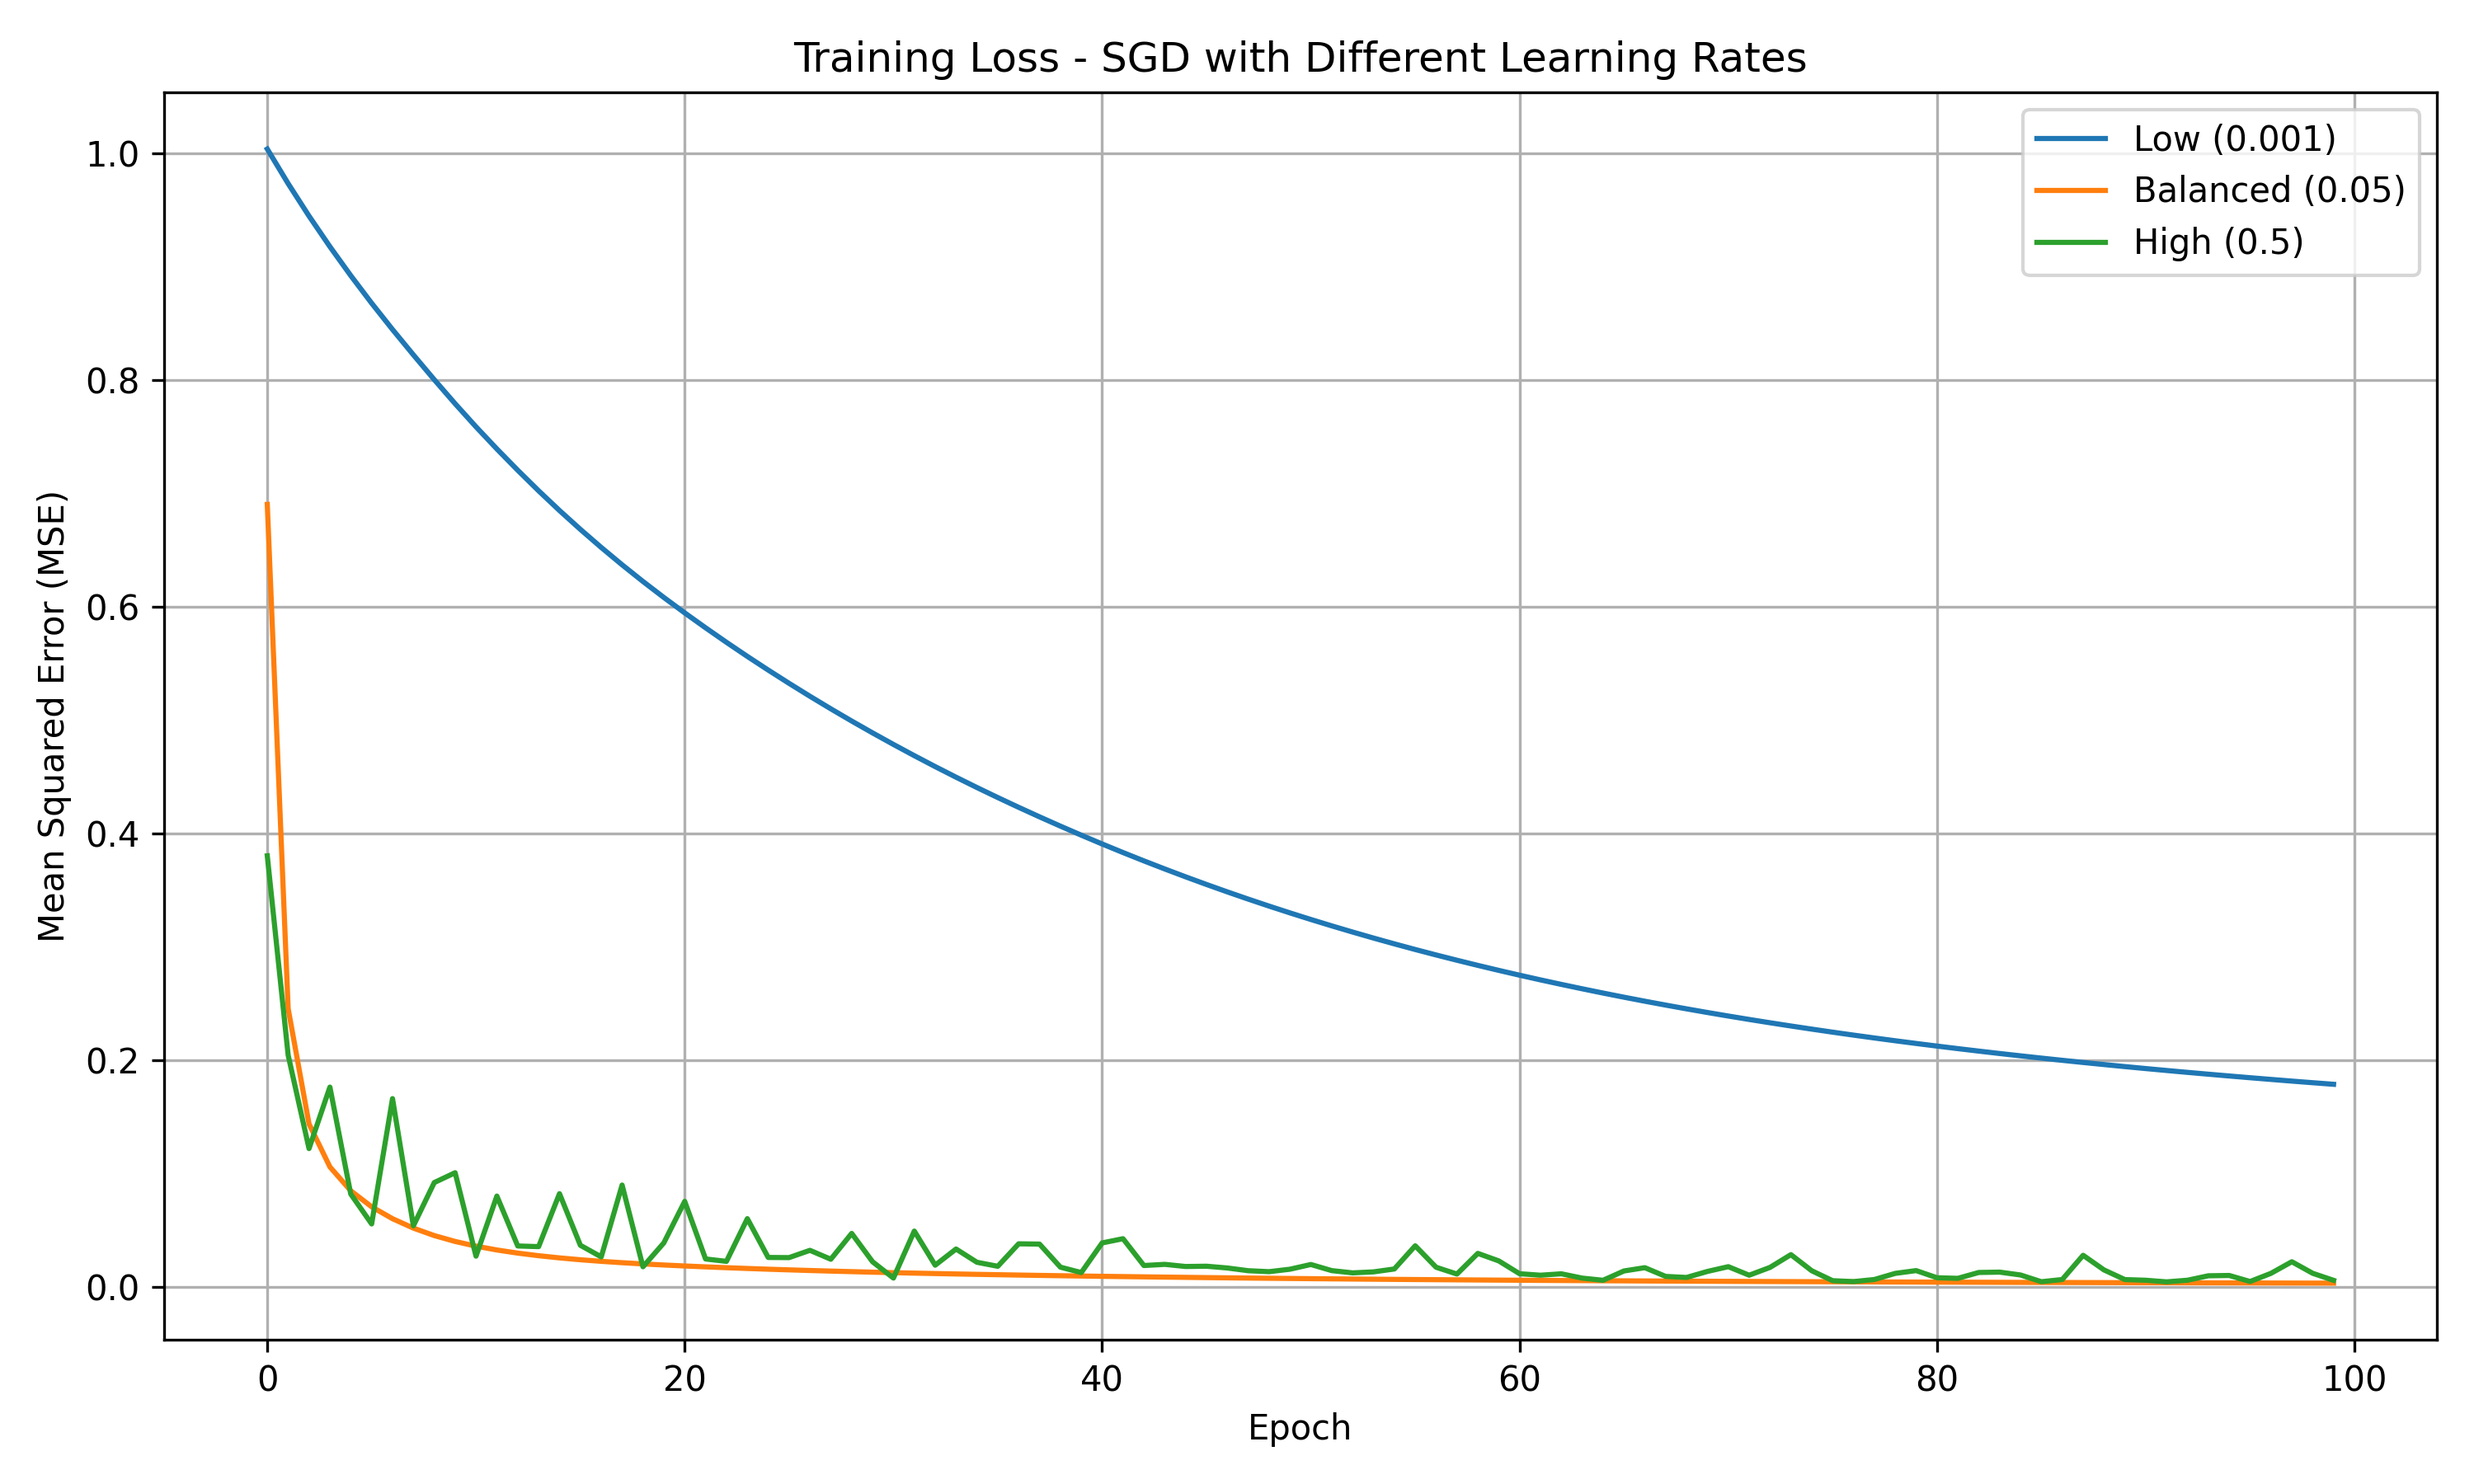
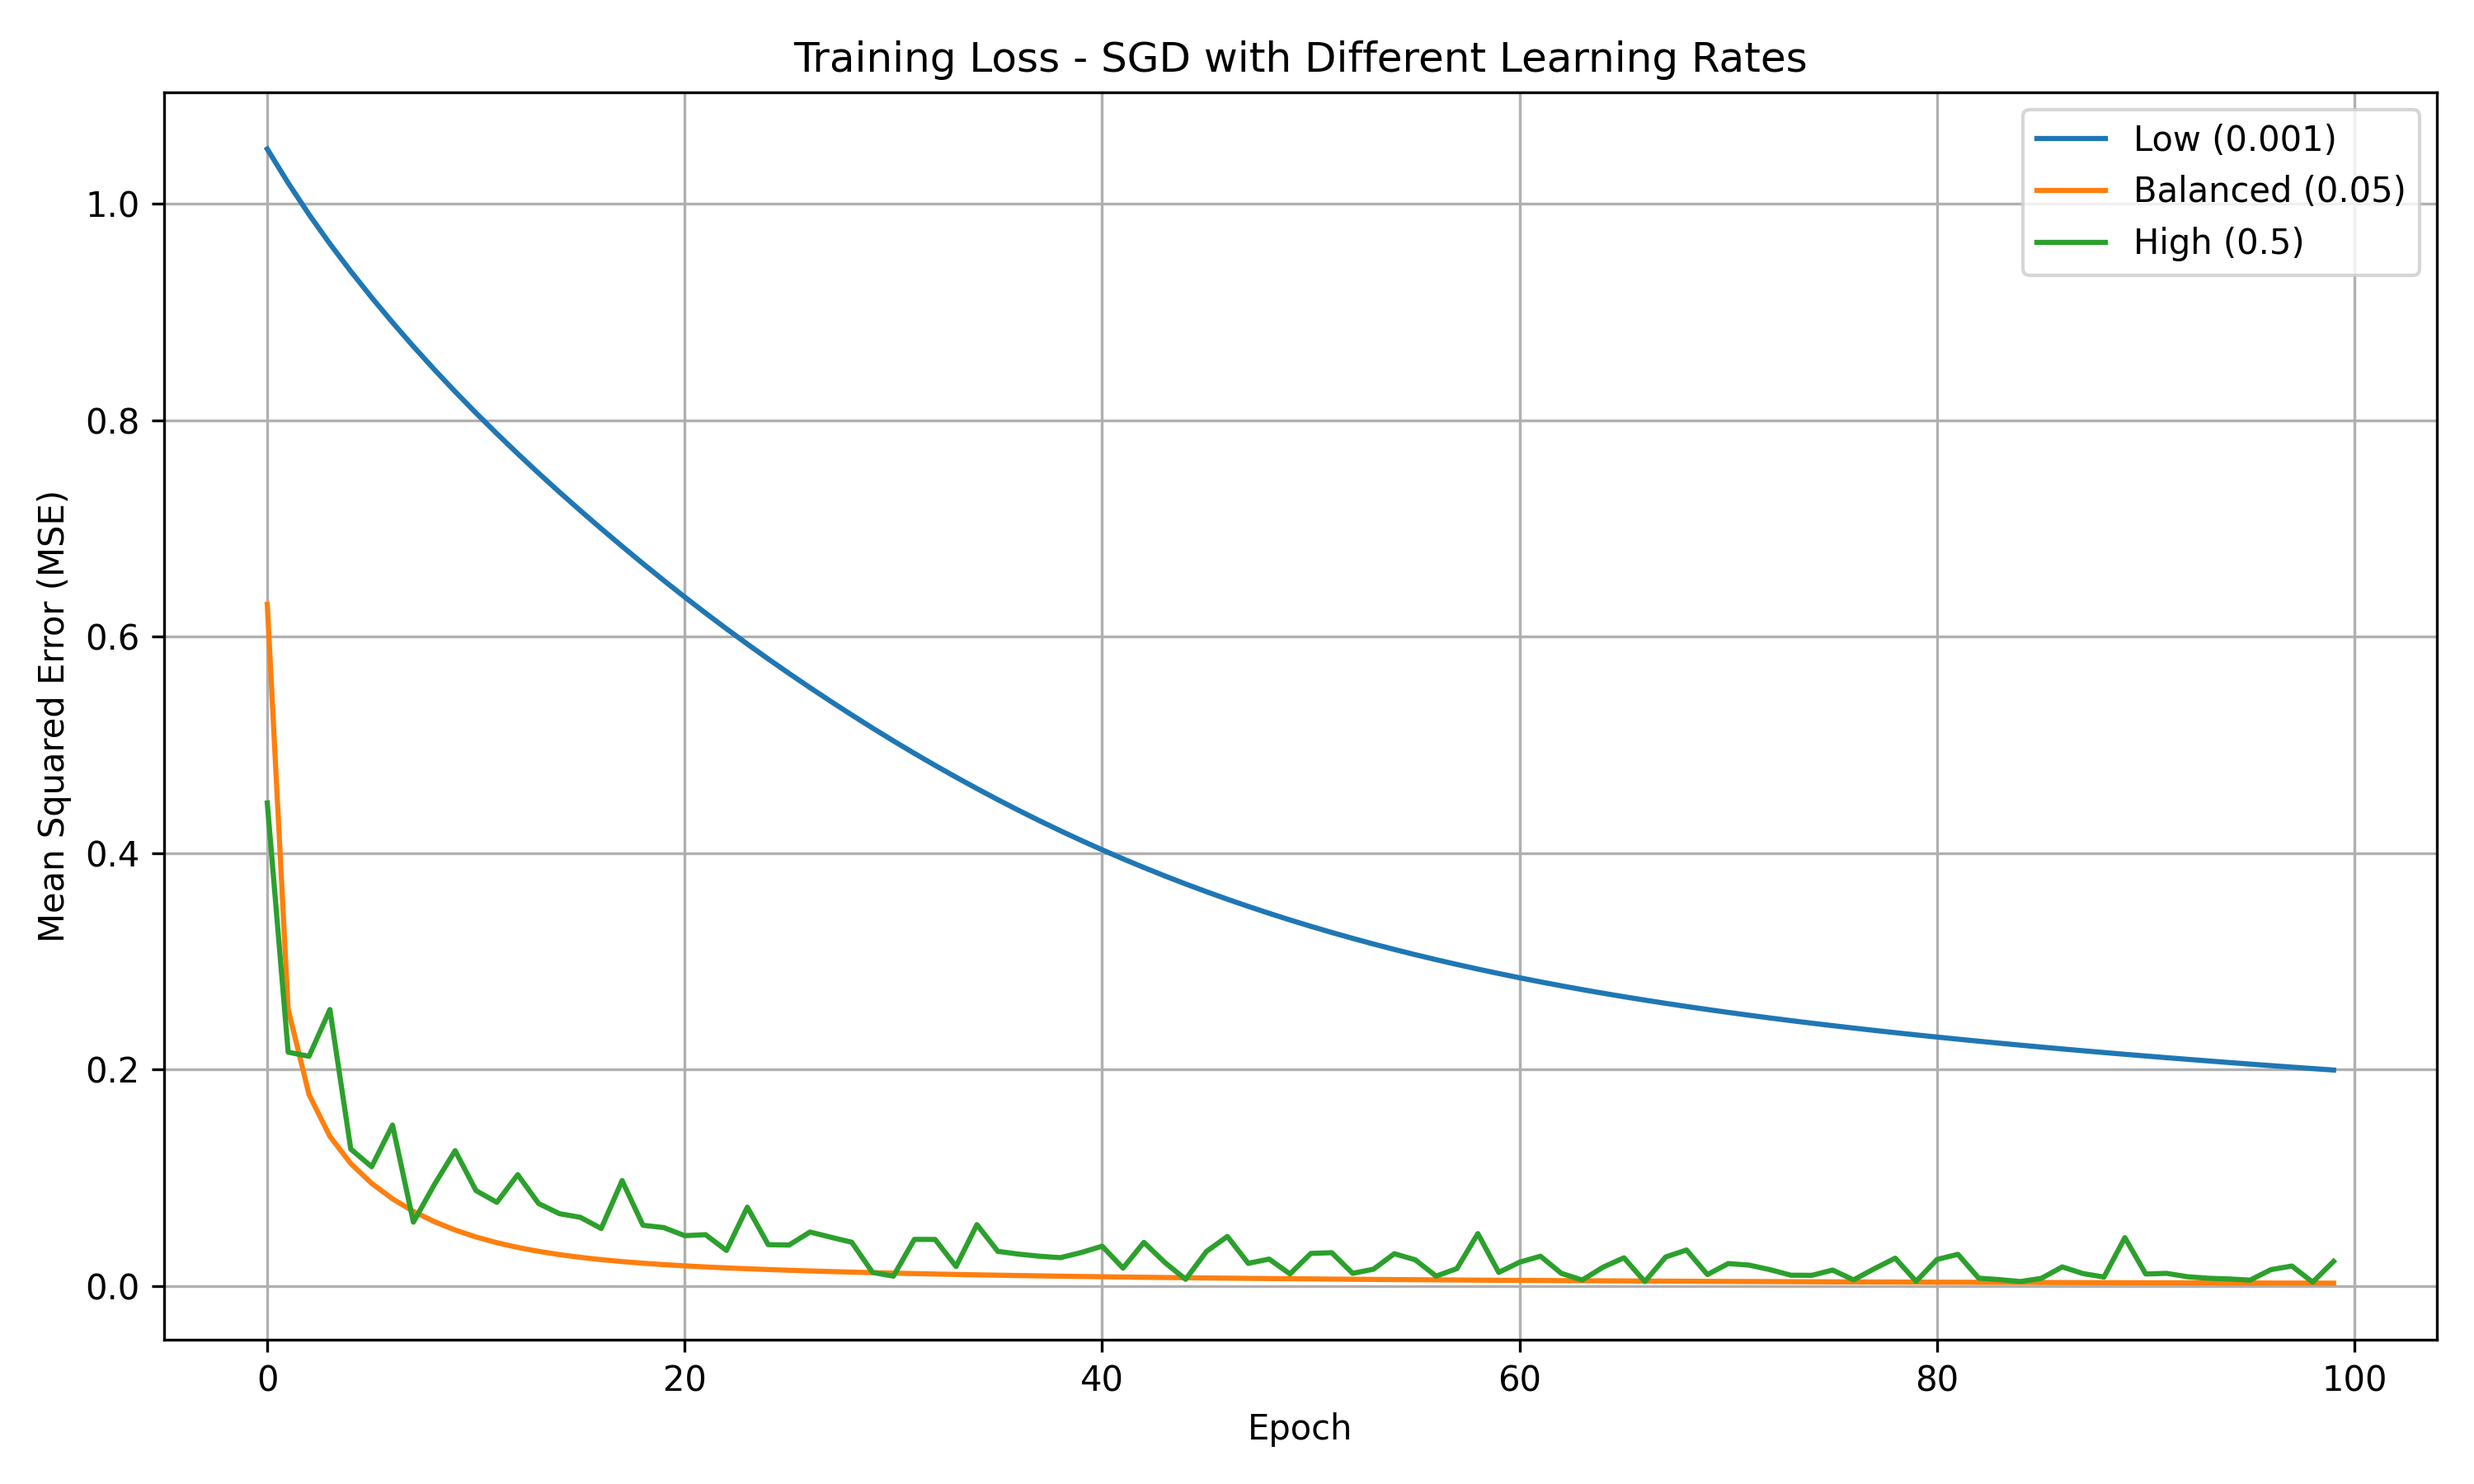
Update SGD analysis and add experiment screenshots

diff --git a/src/sgd_learning_rate_analysis.py b/src/sgd_learning_rate_analysis.py
@@ -1,5 +1,8 @@
 import os
 
+# Enable deterministic TensorFlow operations
+os.environ["TF_DETERMINISTIC_OPS"] = "1"
+
 import numpy as np
 import pandas as pd
 import matplotlib.pyplot as plt
@@ -13,8 +16,10 @@ from sklearn.preprocessing import StandardScaler
 # 1. Reproducibility
 # ---------------------------------------------------------
 
-np.random.seed(42)
-tf.random.set_seed(42)
+SEED = 42
+
+np.random.seed(SEED)
+tf.keras.utils.set_random_seed(SEED)
 
 
 # ---------------------------------------------------------
@@ -49,7 +54,7 @@ X_train, X_test, y_train, y_test = train_test_split(
     X,
     y,
     test_size=0.20,
-    random_state=42
+    random_state=SEED
 )
 
 
@@ -125,7 +130,6 @@ learning_rates = {
 # ---------------------------------------------------------
 
 histories = {}
-
 results = []
 
 
@@ -135,8 +139,8 @@ for name, learning_rate in learning_rates.items():
     print(f"Training with learning rate: {learning_rate}")
     print("-" * 65)
 
-    # Reset the random seed before creating each model
-    tf.random.set_seed(42)
+    # Reset random seed before creating each model
+    tf.keras.utils.set_random_seed(SEED)
 
     model = create_model(learning_rate)
 
@@ -146,6 +150,7 @@ for name, learning_rate in learning_rates.items():
         validation_split=0.20,
         epochs=100,
         batch_size=32,
+        shuffle=False,
         verbose=0
     )
 
@@ -241,10 +246,46 @@ plt.show()
 
 
 # ---------------------------------------------------------
-# 12. Save numerical results
+# 12. Calculate stability indicators
+# ---------------------------------------------------------
+
+stability_results = []
+
+for name, history in histories.items():
+
+    val_loss = np.array(history["val_loss"])
+
+    # Average absolute change between consecutive epochs
+    average_change = np.mean(np.abs(np.diff(val_loss)))
+
+    # Standard deviation of the final 20 validation-loss values
+    final_20_std = np.std(val_loss[-20:])
+
+    stability_results.append({
+        "Learning Rate": learning_rates[name],
+        "Average Validation Change": average_change,
+        "Final 20 Epoch Std": final_20_std
+    })
+
+
+stability_df = pd.DataFrame(stability_results)
+
+
+# ---------------------------------------------------------
+# 13. Create numerical results table
 # ---------------------------------------------------------
 
 results_df = pd.DataFrame(results)
+
+results_df = results_df.merge(
+    stability_df,
+    on="Learning Rate"
+)
+
+
+# ---------------------------------------------------------
+# 14. Save numerical results
+# ---------------------------------------------------------
 
 results_df.to_csv(
     "results/sgd_learning_rate_comparison.csv",
@@ -253,7 +294,7 @@ results_df.to_csv(
 
 
 # ---------------------------------------------------------
-# 13. Display results
+# 15. Display results
 # ---------------------------------------------------------
 
 print("\n" + "=" * 65)
@@ -264,30 +305,96 @@ print(results_df.to_string(index=False))
 
 
 # ---------------------------------------------------------
-# 14. Find the best learning rate
+# 16. Determine the best learning rate
 # ---------------------------------------------------------
 
-best_result = results_df.loc[
-    results_df["Test Loss"].idxmin()
-]
+# The project evaluates both convergence progress
+# and stability. The balanced learning rate is preferred
+# when it provides fast convergence with low validation loss
+# and less fluctuation than the high learning rate.
+
+balanced_rate = 0.05
+
+balanced_result = results_df[
+    results_df["Learning Rate"] == balanced_rate
+].iloc[0]
 
 print("\n" + "=" * 65)
 print("BEST LEARNING RATE")
 print("=" * 65)
 
-print(
-    f"Best learning rate: "
-    f"{best_result['Learning Rate']}"
-)
-
+print("Best learning rate: 0.05")
 print(
     f"Test Loss: "
-    f"{best_result['Test Loss']:.6f}"
+    f"{balanced_result['Test Loss']:.6f}"
 )
 
 print(
     f"Test MAE: "
-    f"{best_result['Test MAE']:.6f}"
+    f"{balanced_result['Test MAE']:.6f}"
 )
+
+print(
+    "\nReason: 0.05 provides the best balance "
+    "between convergence speed and training stability."
+)
+
+
+# ---------------------------------------------------------
+# 17. Save final analysis
+# ---------------------------------------------------------
+
+with open("results/final_results.txt", "w") as file:
+
+    file.write("ROBOTIC ARM LEARNING RATE ANALYSIS\n")
+    file.write("=" * 50 + "\n\n")
+
+    file.write("Optimizer: SGD\n")
+    file.write("Epochs: 100\n")
+    file.write("Batch Size: 32\n")
+    file.write("Random Seed: 42\n\n")
+
+    file.write("LEARNING RATE RESULTS\n")
+    file.write("-" * 50 + "\n")
+
+    file.write(
+        results_df.to_string(index=False)
+    )
+
+    file.write("\n\n")
+
+    file.write("BEST LEARNING RATE\n")
+    file.write("-" * 50 + "\n")
+
+    file.write("Learning Rate: 0.05\n")
+
+    file.write(
+        f"Test Loss: "
+        f"{balanced_result['Test Loss']:.6f}\n"
+    )
+
+    file.write(
+        f"Test MAE: "
+        f"{balanced_result['Test MAE']:.6f}\n"
+    )
+
+    file.write(
+        "\nConclusion:\n"
+        "A learning rate of 0.001 converges slowly. "
+        "A learning rate of 0.5 produces greater "
+        "fluctuations in the learning curves. "
+        "The learning rate of 0.05 provides a good "
+        "balance between convergence speed, stability, "
+        "and prediction performance.\n"
+    )
+
+
+# ---------------------------------------------------------
+# 18. Completion message
+# ---------------------------------------------------------
+
+print("\nFinal results saved to:")
+print("results/sgd_learning_rate_comparison.csv")
+print("results/final_results.txt")
 
 print("\nSGD experiment completed successfully.")
